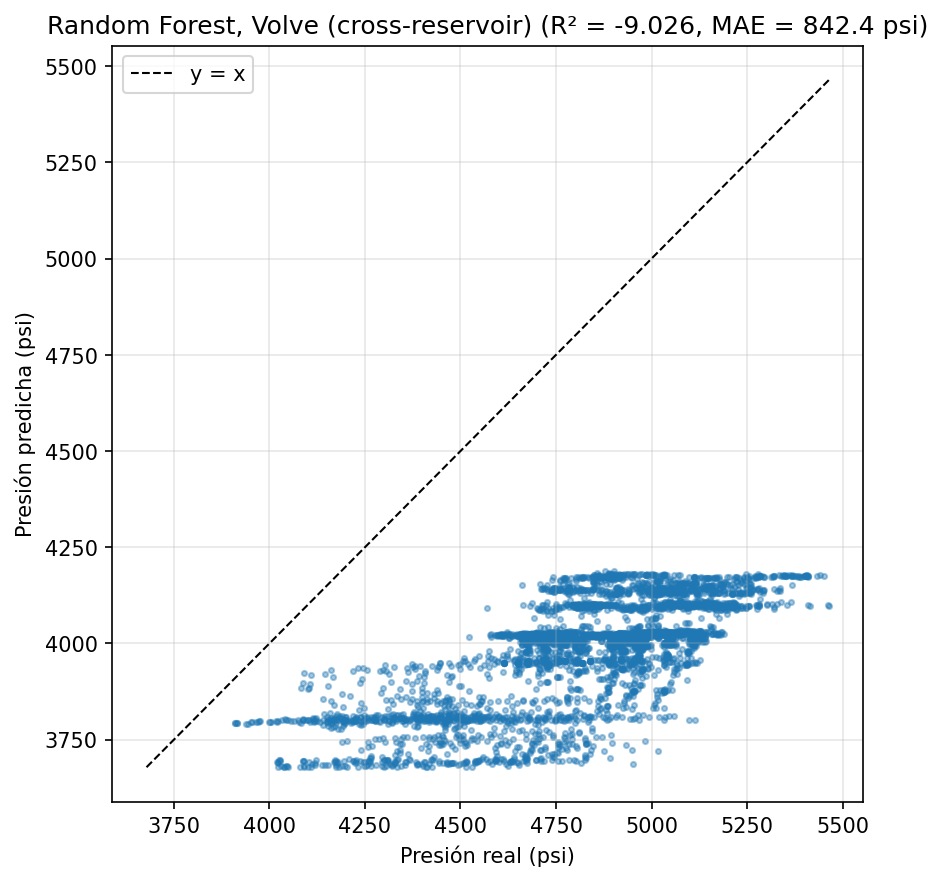
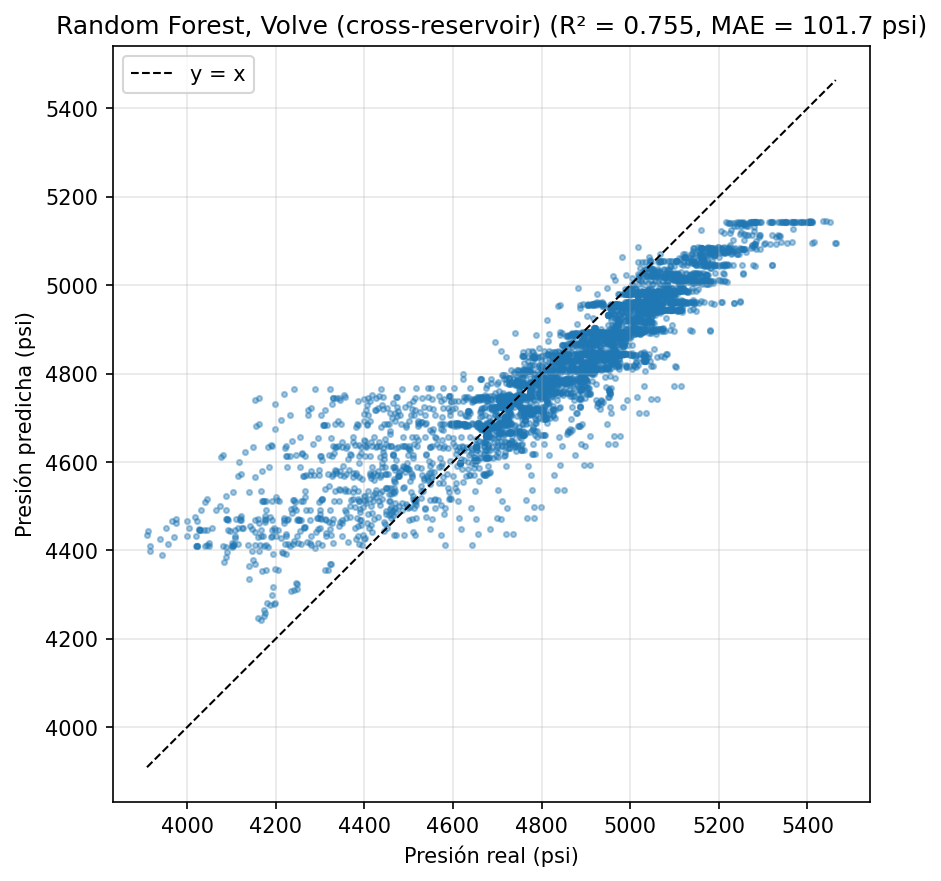
actualizo resultados de los modelos

diff --git a/informe.tex b/informe.tex
@@ -771,6 +771,10 @@ Para definir la calidad de los modelos, nos basamos en las siguientes métricas:
 \begin{itemize}
   \item \textbf{R² (coeficiente de determinación)}: mide qué fracción de la varianza del target explica el modelo.
   \item \textbf{MAE (Mean Absolute Error)}: el error promedio absoluto en la misma unidad física que la presión del reservorio (psi).
+  \item \textbf{RMSE (Root Mean Squared Error)}: la raíz del error cuadrático medio, también en psi. Penaliza con más
+  fuerza los timesteps con errores grandes, así que al compararlo con el MAE da una idea de cuán "concentrados" están los
+  errores: si RMSE y MAE son parecidos, el error es uniforme; si el RMSE es mucho mayor, hay timesteps puntuales con
+  desvíos importantes.
 \end{itemize}
 
 \subsection{Evaluación y análisis comparativo de los modelos de machine learning}
@@ -785,13 +789,13 @@ sino establecer una cota inferior empírica contra la cual comparar los modelos 
 
 \begin{table}[H]
 \centering
-\begin{tabular}{|l|c|c|}
+\begin{tabular}{|l|c|c|c|}
   \hline
-  \textbf{Split} & \textbf{R²} & \textbf{MAE (psi)} \\
+  \textbf{Split} & \textbf{R²} & \textbf{MAE (psi)} & \textbf{RMSE (psi)} \\
   \hline
-  Norne test (in-distribution) & 0.959 & 35.23 \\
+  Norne test (in-distribution) & 0.959 & 35.23 & 46.73 \\
   \hline
-  Volve (cross-reservoir) & -891.83 & 8166.51 \\
+  Volve (cross-reservoir) & -891.87 & 8166.67 & 8170.25 \\
   \hline
 \end{tabular}
 \caption{Métricas del modelo baseline (regresión Ridge).}
@@ -826,9 +830,11 @@ sino establecer una cota inferior empírica contra la cual comparar los modelos 
 \label{fig:baseline-volve-parity}
 \end{figure}
 
-A partir de los valores del coeficiente de determinación (0.959 para Norne, -891.83 para Volve), 
-se puede deducir que claramente el modelo overfittea para los datos de entrenamiento, y no logra
-extrapolar la predicción para reservorios con una distribución distinta a la de Norne.
+El modelo se ajusta razonablemente bien a Norne (R² = 0.959, MAE de 35 psi), pero el R² sobre
+Volve es de $-891.87$ y el MAE supera los 8000 psi. La regresión lineal aprende relaciones
+calibradas a los rangos específicos de las features de Norne; cuando esas features toman valores
+fuera de ese rango calibrado (como pasa en Volve), el modelo extrapola linealmente y produce
+predicciones absurdas, muy lejos del rango físico real de la presión.
 
 
 \subsubsection{Random Forest}
@@ -840,13 +846,13 @@ con el objetivo de capturar interacciones no lineales entre las features que la 
 \centering
 \caption{Métricas del modelo Random Forest.}
 \label{tab:metricas-rf}
-\begin{tabular}{|l|c|c|}
+\begin{tabular}{|l|c|c|c|}
 \hline
-\textbf{Split} & \textbf{R²} & \textbf{MAE (psi)} \\
+\textbf{Split} & \textbf{R²} & \textbf{MAE (psi)} & \textbf{RMSE (psi)} \\
 \hline
-Norne test (in-distribution) & 0.977 & 22.99 \\
+Norne test (in-distribution) & 0.989 & 19.03 & 23.75 \\
 \hline
-Volve (cross-reservoir) & -9.03 & 842.43 \\
+Volve (cross-reservoir) & 0.755 & 101.69 & 135.32 \\
 \hline
 \end{tabular}
 \end{table}
@@ -879,11 +885,14 @@ Volve (cross-reservoir) & -9.03 & 842.43 \\
 \label{fig:rf-volve-parity}
 \end{figure}
 
-Random Forest presenta una mejora respecto al modelo baseline sobre Norne: el R² sube de 0.96 a 0.98 y el MAE
-baja de 35 a 23 psi. Sin embargo, el modelo no logra extrapolar estos resultados al reservorio Volve,
-el R² es de -9.03 y el MAE supera los 800 psi. Aunque las predicciones ya no son tan extremas
-como las del baseline lineal, la incapacidad de generalizar fuera de la distribución de
-entrenamiento se mantiene.
+Random Forest mejora al baseline tanto in-distribution como cross-reservoir. Sobre Norne el R² sube
+de 0.96 a 0.99 y el MAE baja de 35 a 19 psi. El cambio más notorio está sobre Volve: a diferencia
+del baseline lineal, que extrapola fuera de rango, Random Forest logra un R² de 0.755 con un MAE
+de 101.69 psi y RMSE de 135.32 psi. La diferencia entre MAE y RMSE en Volve es moderada (factor
+1.3), lo que indica que los errores están distribuidos de manera relativamente uniforme y no
+concentrados en pocos timesteps. Estos valores se mantienen al nivel del LSTM, mostrando que un
+modelo de árboles puede generalizar entre reservorios sin necesidad de modelar la dinámica temporal
+explícitamente, siempre y cuando el target esté normalizado respecto de la presión inicial.
 
 \subsubsection{XGBoost}
 
@@ -894,13 +903,13 @@ que en general supera a Random Forest en problemas tabulares.
 \centering
 \caption{Métricas del modelo XGBoost.}
 \label{tab:metricas-xgboost}
-\begin{tabular}{|l|c|c|}
+\begin{tabular}{|l|c|c|c|}
 \hline
-\textbf{Split} & \textbf{R²} & \textbf{MAE (psi)} \\
+\textbf{Split} & \textbf{R²} & \textbf{MAE (psi)} & \textbf{RMSE (psi)} \\
 \hline
-Norne test (in-distribution) & 0.986 & 19.80 \\
+Norne test (in-distribution) & 0.991 & 17.05 & 21.89 \\
 \hline
-Volve (cross-reservoir) & -9.93 & 864.89 \\
+Volve (cross-reservoir) & 0.082 & 183.51 & 262.04 \\
 \hline
 \end{tabular}
 \end{table}
@@ -933,29 +942,89 @@ Volve (cross-reservoir) & -9.93 & 864.89 \\
 \label{fig:xgb-volve-parity}
 \end{figure}
 
-XGBoost obtiene la mejor performance in-distribution sobre Norne de los modelos probados:
-R² = 0.986 y MAE de apenas 19.80 psi, valores muy superiores al baseline. Sin embargo,
-mantiene la misma incapacidad de generalizar entre reservorios: el R² sobre Volve es de
--9.93 y el MAE de 865 psi.
+XGBoost obtiene la mejor performance in-distribution sobre Norne de todos los modelos
+probados: R² = 0.991 y MAE de apenas 17 psi. Sin embargo, sobre Volve queda muy por detrás
+de Random Forest: el R² es apenas positivo (0.082), el MAE supera los 180 psi y el RMSE
+los 260 psi. La razón RMSE/MAE de 1.43 indica además que hay timesteps con error muy
+grande arrastrando la métrica. La mayor capacidad expresiva del modelo le permite ajustar
+con más finura la distribución particular de Norne, pero a costa de transferir peor cuando
+el campo cambia.
+
+
+\subsubsection{Support Vector Regression (SVR)}
+
+Como último modelo clásico probamos un Support Vector Regression con kernel RBF, una familia
+distinta a las anteriores (basada en kernels en lugar de lineal o de árboles). La motivación
+era completar el panorama metodológico con un modelo no lineal y no basado en árboles.
+
+\begin{table}[ht]
+\centering
+\caption{Métricas del modelo SVR (kernel RBF).}
+\label{tab:metricas-svr}
+\begin{tabular}{|l|c|c|c|}
+\hline
+\textbf{Split} & \textbf{R²} & \textbf{MAE (psi)} & \textbf{RMSE (psi)} \\
+\hline
+Norne test (in-distribution) & 0.986 & 22.07 & 27.03 \\
+\hline
+Volve (cross-reservoir) & 0.052 & 237.78 & 266.20 \\
+\hline
+\end{tabular}
+\end{table}
+
+\begin{figure}[H]
+\centering
+\includegraphics[width=0.8\textwidth]{img/validacion/svr_norne_trayectoria.png}
+\caption{Comparación entre la presión real de Norne y la presión predicha por el modelo SVR}
+\label{fig:svr-norne-traj}
+\end{figure}
+
+\begin{figure}[H]
+\centering
+\includegraphics[width=0.6\textwidth]{img/validacion/svr_norne_parity.png}
+\caption{Parity plot entre la presión real de Norne vs. la presión predicha por el modelo SVR}
+\label{fig:svr-norne-parity}
+\end{figure}
+
+\begin{figure}[H]
+\centering
+\includegraphics[width=0.8\textwidth]{img/validacion/svr_volve_trayectoria.png}
+\caption{Comparación entre la presión real de Volve y la presión predicha por el modelo SVR}
+\label{fig:svr-volve-traj}
+\end{figure}
+
+\begin{figure}[H]
+\centering
+\includegraphics[width=0.6\textwidth]{img/validacion/svr_volve_parity.png}
+\caption{Parity plot entre la presión real de Volve vs. la presión predicha por el modelo SVR}
+\label{fig:svr-volve-parity}
+\end{figure}
+
+SVR alcanza buenas métricas in-distribution sobre Norne (R² 0.986, MAE 22 psi), comparables a las
+de Random Forest y XGBoost. Sin embargo, sobre Volve queda relegado al fondo de la tabla entre
+los modelos que sí logran transferir: el R² es de apenas 0.052 y el MAE supera los 237 psi. El
+kernel RBF es sensible a la geometría del espacio de features, y cuando los puntos de Volve caen
+fuera de la región cubierta por Norne durante el entrenamiento, las predicciones tienden a la
+media del training set.
 
 
 \subsubsection{LSTM}
 
-En vista de que los modelos lineales y de árboles no son capaces de aprender la física subyacente
-del problema, decidimos probar un modelo LSTM, que suele tener buen rendimiento sobre datos basados
-en series de tiempo.
+Como último modelo probamos un LSTM, que suele tener buen rendimiento sobre datos basados en
+series de tiempo y, a diferencia de los modelos clásicos, puede modelar explícitamente la
+dependencia temporal entre timesteps.
 
 \begin{table}[ht]
 \centering
 \caption{Métricas del modelo LSTM}
 \label{tab:metricas-lstm}
-\begin{tabular}{|l|c|c|}
+\begin{tabular}{|l|c|c|c|}
 \hline
-\textbf{Split} & \textbf{R²} & \textbf{MAE (psi)} \\
+\textbf{Split} & \textbf{R²} & \textbf{MAE (psi)} & \textbf{RMSE (psi)} \\
 \hline
-Norne test (in-distribution) & 0.910 & 51.70 \\
+Norne test (in-distribution) & 0.910 & 51.70 & 68.40 \\
 \hline
-Volve (cross-reservoir) & 0.735 & 101.90 \\
+Volve (cross-reservoir) & 0.735 & 101.90 & 140.00 \\
 \hline
 \end{tabular}
 \end{table}
@@ -988,35 +1057,37 @@ Volve (cross-reservoir) & 0.735 & 101.90 \\
 \label{fig:lstm-volve-parity}
 \end{figure}
 
-A diferencia de los otros modelos, podemos ver que LSTM logra buenos resultados tanto para el reservorio
-Norne como para Volve, es decir, es capaz de generalizar la predicción entre reservorios distintos.
+El LSTM logra buenos resultados tanto sobre Norne como sobre Volve. En Norne alcanza un R²
+de 0.91 con un MAE de 51.7 psi, valores algo más bajos que los de los modelos de árboles en su
+propio reservorio (que llegan a R² 0.99). Lo importante está en Volve: el R² es de 0.735 con
+un MAE de 101.9 psi y RMSE de 140 psi, valores prácticamente equivalentes a los de Random
+Forest. Esto muestra que el LSTM es, junto con Random Forest, uno de los dos modelos que logra
+transferir entre reservorios bajo este protocolo.
 
-En Norne, el modelo alcanza un R² de 0.91 en el test in-distribution, un valor
-algo más bajo que XGBoost en su propio reservorio (0.99). Sin embargo, el resultado más interesante
-está en los resultados de las predicciones de Volve, ya que se consigue un R² de 0.735 con un MAE
-de 101.9 psi, mientras que los demás modelos, bajo este protocolo, se mantenían en valores de R²
-negativos sobre Volve.
-
-El modelo LSTM logra generar predicciones que mantienen la forma general de la trayectoria
-de presión de cada simulación de Volve, en contraste con los modelos lineales y de árboles,
-que predicen valores muy fuera del rango físico real.
+La ventaja diferencial del LSTM no aparece en las métricas brutas del experimento (es decir,
+no supera a Random Forest), sino en cómo modela el problema: consume las features como secuencia
+temporal y mantiene un encoder dedicado para las propiedades termodinámicas del fluido. Esto le
+da más capacidad de adaptarse a escenarios más complejos que el actual (por ejemplo, mayor
+cantidad de palancas operativas o reservorios con regímenes más distintos), aunque en este
+experimento puntual esa capacidad extra no se traduzca en mejor métrica.
 
 \subsubsection{Comparación final entre modelos}
 
 Los gráficos \ref{fig:comparacion-mae} y \ref{fig:comparacion-r2} comparan visualmente las
-métricas de los cuatro modelos sobre los dos splits. Dado que todos fueron entrenados con el
+métricas de los cinco modelos sobre los dos splits. Dado que todos fueron entrenados con el
 mismo protocolo (24 simulaciones de Norne como train, 6 como test, las 10 simulaciones de
-Volve como evaluación cross-reservoir), la comparación es directa.
+Volve como evaluación cross-reservoir) y bajo la misma normalización del target relativa a
+$P_{init}$, la comparación es directa.
 
 El gráfico de MAE usa escala logarítmica porque el rango de errores cubre tres órdenes de
-magnitud entre el mejor caso (XGBoost en Norne, 19.8 psi) y el peor (Ridge en Volve, más de
-8000 psi). En el gráfico de R², el valor del baseline en Volve ($-891.83$) está truncado
+magnitud entre el mejor caso (XGBoost en Norne, 17 psi) y el peor (Ridge en Volve, más de
+8000 psi). En el gráfico de R², el valor del baseline en Volve ($-891.87$) está truncado
 para no ofuscar al resto de la escala.
 
 \begin{figure}[H]
 \centering
 \includegraphics[width=0.95\textwidth]{img/validacion/comparacion_mae.png}
-\caption{Comparación del MAE entre los cuatro modelos, en Norne (in-distribution) y Volve
+\caption{Comparación del MAE entre los cinco modelos, en Norne (in-distribution) y Volve
 (cross-reservoir). Escala logarítmica en el eje vertical.}
 \label{fig:comparacion-mae}
 \end{figure}
@@ -1024,24 +1095,24 @@ para no ofuscar al resto de la escala.
 \begin{figure}[H]
 \centering
 \includegraphics[width=0.95\textwidth]{img/validacion/comparacion_r2.png}
-\caption{Comparación del R² entre los cuatro modelos.}
+\caption{Comparación del R² entre los cinco modelos.}
 \label{fig:comparacion-r2}
 \end{figure}
 
-A partir de los gráficos se ve con claridad lo que ya habíamos observado en los análisis
-individuales de cada modelo: bajo este protocolo, el LSTM es el que mejor generaliza al
-reservorio no visto. Los demás modelos alcanzan métricas muy buenas in-distribution sobre
-Norne pero colapsan al evaluar sobre Volve, mientras que el LSTM mantiene un R² positivo y
-un MAE varios órdenes de magnitud menor en el split cross-reservoir.
+De los gráficos se desprenden tres observaciones. Primero, sobre Norne casi todos los modelos
+alcanzan R² mayor a 0.98 y MAE menor a 25 psi (excepto el LSTM, levemente atrás, y Ridge un
+escalón por debajo); in-distribution la elección de modelo no es crítica. Segundo, sobre Volve
+los modelos se separan claramente en tres grupos: Random Forest y LSTM logran R² alrededor de
+0.74 con MAE cercano a 100 psi, XGBoost y SVR alcanzan R² apenas positivos, y Ridge colapsa
+con R² fuertemente negativo. Tercero, no hay un único ganador entre Random Forest y LSTM:
+ambos tienen métricas casi idénticas en los tres indicadores sobre Volve.
 
-Ahora bien, este colapso de los modelos lineales y de árboles sobre Volve depende fuertemente
-de la formulación del problema y no debe leerse como una incapacidad intrínseca de esas
-familias de modelo. En este experimento, el LSTM predice la diferencia de presión respecto de
-$P_{init}$ (un objetivo anclado y transferible entre campos), mientras que los modelos
-restantes fueron entrenados para predecir la presión absoluta. Como se muestra en la sección
-\ref{sec:lofo}, cuando los modelos de árboles reciben el mismo anclaje a $P_{init}$, también
-logran transferir a un campo no visto. En otras palabras, el factor determinante de la transferencia
-resulta ser el anclaje a $P_{init}$ y la cobertura de dominio, más que la familia de modelo elegida.
+La conclusión central del experimento es que la transferencia entre reservorios no depende
+tanto de la familia de modelo elegida sino de cómo se plantee el problema. La normalización del
+target respecto de $P_{init}$ es el ingrediente que permite que modelos sin dependencia temporal
+explícita, como Random Forest, logren generalizar a un campo no visto. La sección
+\ref{sec:lofo} profundiza esta validación incorporando un tercer reservorio y un protocolo
+\textit{leave-one-field-out} más exigente.
 
 \subsection{Validación de generalización multi-campo (leave-one-field-out)}
 \label{sec:lofo}
